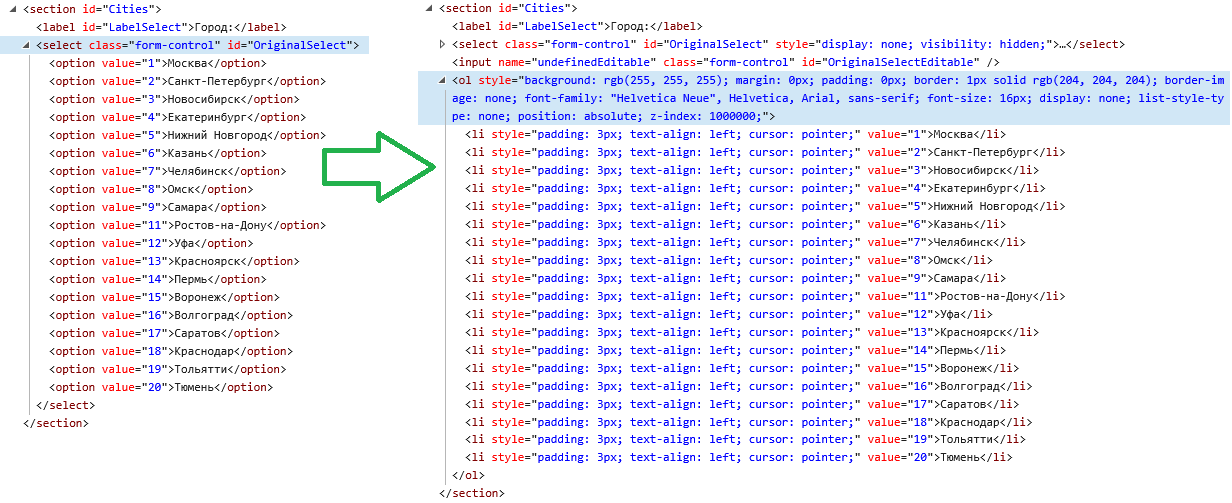
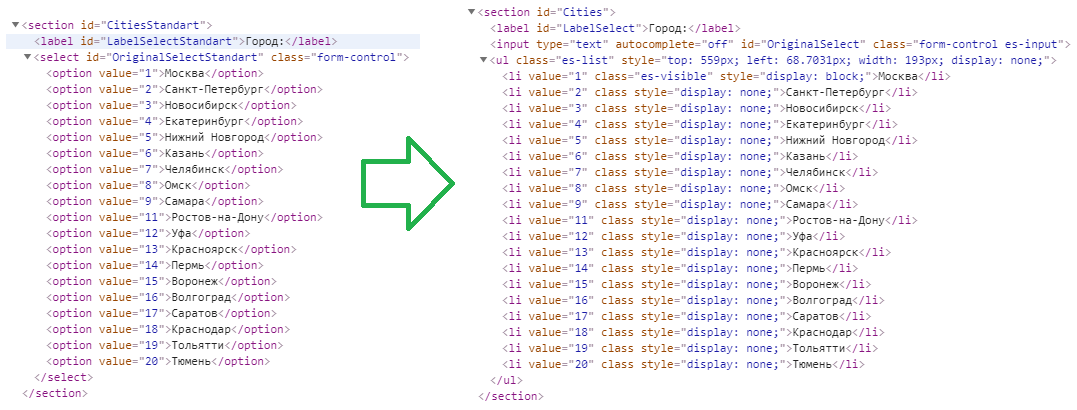
Актуализировал информацию в статье про редактируемый SELECT

Changed region(s): [[0.0, 0.0, 1.0, 0.9951], [0.3677, 0.9366, 0.429, 0.9951]]

diff --git a/_posts/2019-09-08-EditableSelect.md b/_posts/2019-09-08-EditableSelect.md
@@ -84,7 +84,7 @@ categories: [JavaScript, JQuery]
 </script>
 ```
 
-Именно метод "editableSelect()" используется для того, чтобы сделать SELECT редактируемым. В результате оригинальный элемент SELECT будет скрыт, а вместо него будет отображаться INPUT со списком выбора OL.
+Именно метод "editableSelect()" используется для того, чтобы сделать SELECT редактируемым. В результате оригинальный элемент SELECT будет удален, а вместо него будет отображаться INPUT со списком выбора UL.
 
 ![SELECT до и после](/images/2019-09-08-EditableSelect/SELECT to INPUT.png)
 
